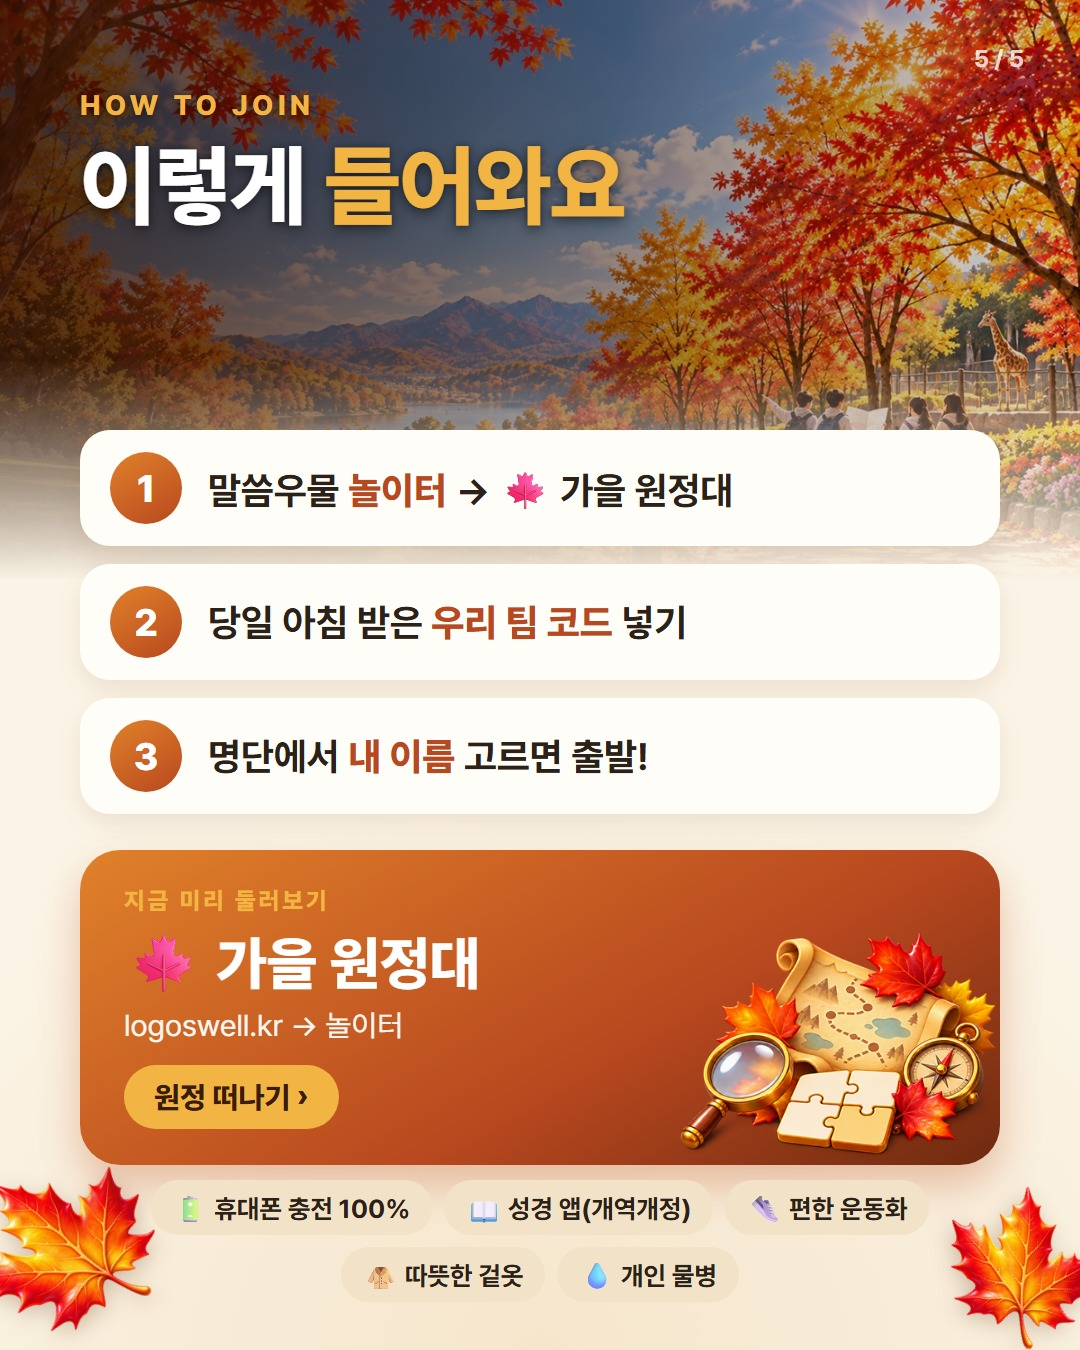
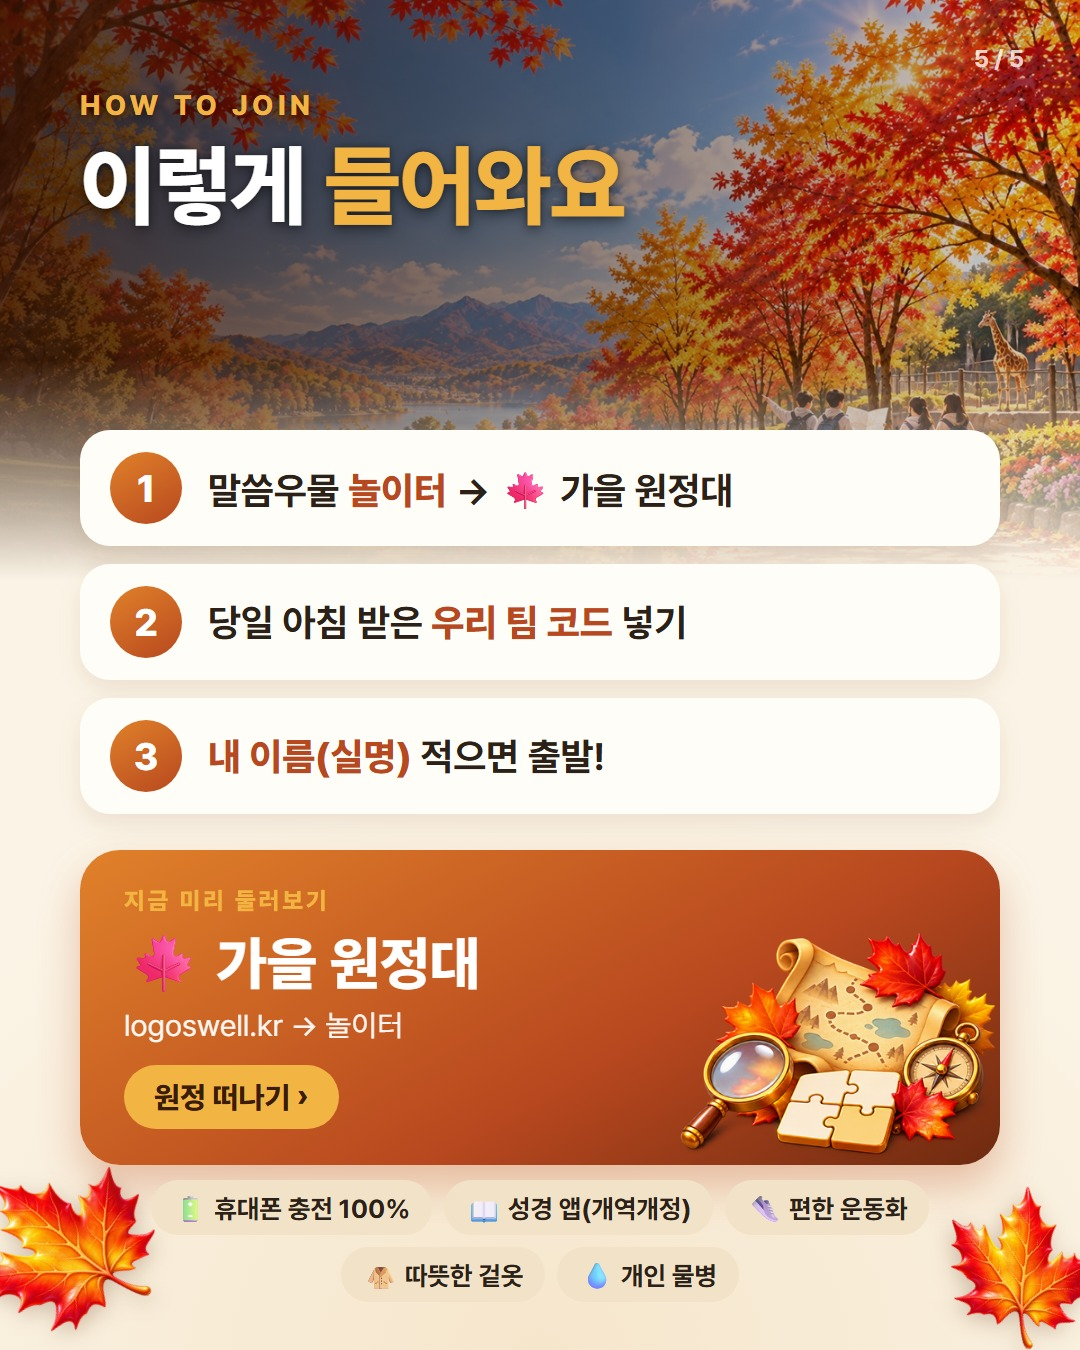
가을 원정대: 명단에서 고르기 대신 학생이 실명을 직접 적어 들어오기
- picnic_register: 같은 팀에 같은 이름이면 그 사람으로 이어짐, 2~10글자, 팀당 30명까지
- 인스타 예고 5장 문구도 「내 이름(실명) 적으면 출발!」로

Claude-Session: https://claude.ai/code/session_01NYKVJXya5oZd3tEBTiuKGb

Changed region(s): [[0.1833, 0.5289, 0.6111, 0.5911]]

diff --git a/expedition.html b/expedition.html
@@ -194,9 +194,13 @@
 
   <!-- 2. 내 이름 -->
   <section class="card" id="nameCard" hidden>
-    <h2 id="nameTitle">내 이름을 골라 주세요</h2>
-    <p class="muted" style="margin:0;">내가 한 미션에 내 이름이 남아요.</p>
-    <div class="names" id="nameList"></div>
+    <h2 id="nameTitle">내 이름을 적어 주세요</h2>
+    <p class="muted" style="margin:0 0 10px;">실명으로 적어요. 내가 한 미션에 내 이름이 남아요. (다시 들어올 때도 같은 이름을 적으면 이어져요)</p>
+    <form class="row" id="nameForm">
+      <input type="text" id="nameInput" autocomplete="name" maxlength="10" placeholder="예: 김하은">
+      <button class="btn" type="submit">출발</button>
+    </form>
+    <p class="msg err" id="nameMsg" role="alert"></p>
     <button class="btn ghost block" type="button" id="otherTeam" style="margin-top:14px;">다른 팀 코드 넣기</button>
   </section>
 
@@ -258,7 +262,7 @@
     <h3>이렇게 해요</h3>
     <ol>
       <li>당일 아침, 선생님이 <b>우리 팀 코드</b>를 알려 줘요.</li>
-      <li>이 화면에 코드를 넣고 <b>내 이름</b>을 골라요.</li>
+      <li>이 화면에 코드를 넣고 <b>내 이름(실명)</b>을 적어요.</li>
       <li>미션을 하면 바로바로 올려요. <b>모든 팀이 얼마나 했는지</b> 진행판으로 함께 보여요.</li>
       <li>점수는 비밀이었다가 <b>시상 때</b> 한꺼번에 공개돼요.</li>
     </ol>
@@ -344,17 +348,22 @@
 
   function pickName() {
     show("name");
-    $("nameTitle").textContent = team.emoji + " " + team.name + " — 내 이름을 골라 주세요";
-    var box = $("nameList");
-    if (!members.length) { box.innerHTML = '<p class="muted">아직 명단이 없어요. 선생님께 말씀드려 주세요.</p>'; return; }
-    box.innerHTML = members.map(function (m) { return '<button type="button" data-id="' + m.id + '">' + esc(m.name) + '</button>'; }).join("");
-    box.querySelectorAll("button").forEach(function (b) {
-      b.onclick = function () {
-        saved.member = Number(b.getAttribute("data-id"));
-        saved.name = b.textContent; save(); enterMain();
-      };
-    });
+    $("nameTitle").textContent = team.emoji + " " + team.name + " — 내 이름을 적어 주세요";
+    $("nameMsg").textContent = "";
+    $("nameInput").value = saved.name || "";
   }
+  $("nameForm").addEventListener("submit", function (ev) {
+    ev.preventDefault();
+    var nm = $("nameInput").value.trim();
+    if (nm.length < 2) { $("nameMsg").textContent = "이름을 2글자 이상 적어 주세요."; return; }
+    var btn = this.querySelector("button"); btn.disabled = true;
+    sb.rpc("picnic_register", { p_code: saved.code, p_name: nm }).then(function (r) {
+      btn.disabled = false;
+      var d = r && r.data;
+      if (!d || !d.ok) { $("nameMsg").textContent = (d && d.error) || "연결이 원활하지 않아요. 다시 눌러 주세요."; return; }
+      saved.member = d.member.id; saved.name = d.member.name; save(); enterMain();
+    }, function () { btn.disabled = false; $("nameMsg").textContent = "연결이 원활하지 않아요. 다시 눌러 주세요."; });
+  });
   $("otherTeam").onclick = function () { saved = { tab: tab }; save(); team = null; show("join"); $("codeInput").value = ""; };
   $("changeMe").onclick = function () { stopPoll(); pickName(); };
 

diff --git a/expedition-admin.html b/expedition-admin.html
@@ -107,6 +107,7 @@
       <details id="teamFold">
         <summary>👥 팀 · 명단 · 코드</summary>
         <div style="margin-top:12px;">
+          <p class="muted" style="margin:0 0 10px;">학생이 팀 코드를 넣고 실명을 적으면 명단에 저절로 생겨요(같은 이름은 한 사람으로 이어져요). 오타나 장난 이름은 ✕로 지우면 돼요. 미리 넣어 둘 필요는 없어요.</p>
           <form class="row" id="addTeamForm">
             <input id="tEmoji" placeholder="🦁" style="width:64px;flex:none;text-align:center;">
             <input id="tName" placeholder="팀 이름 (예: 1학년 A팀)" style="flex:1 1 180px;">
